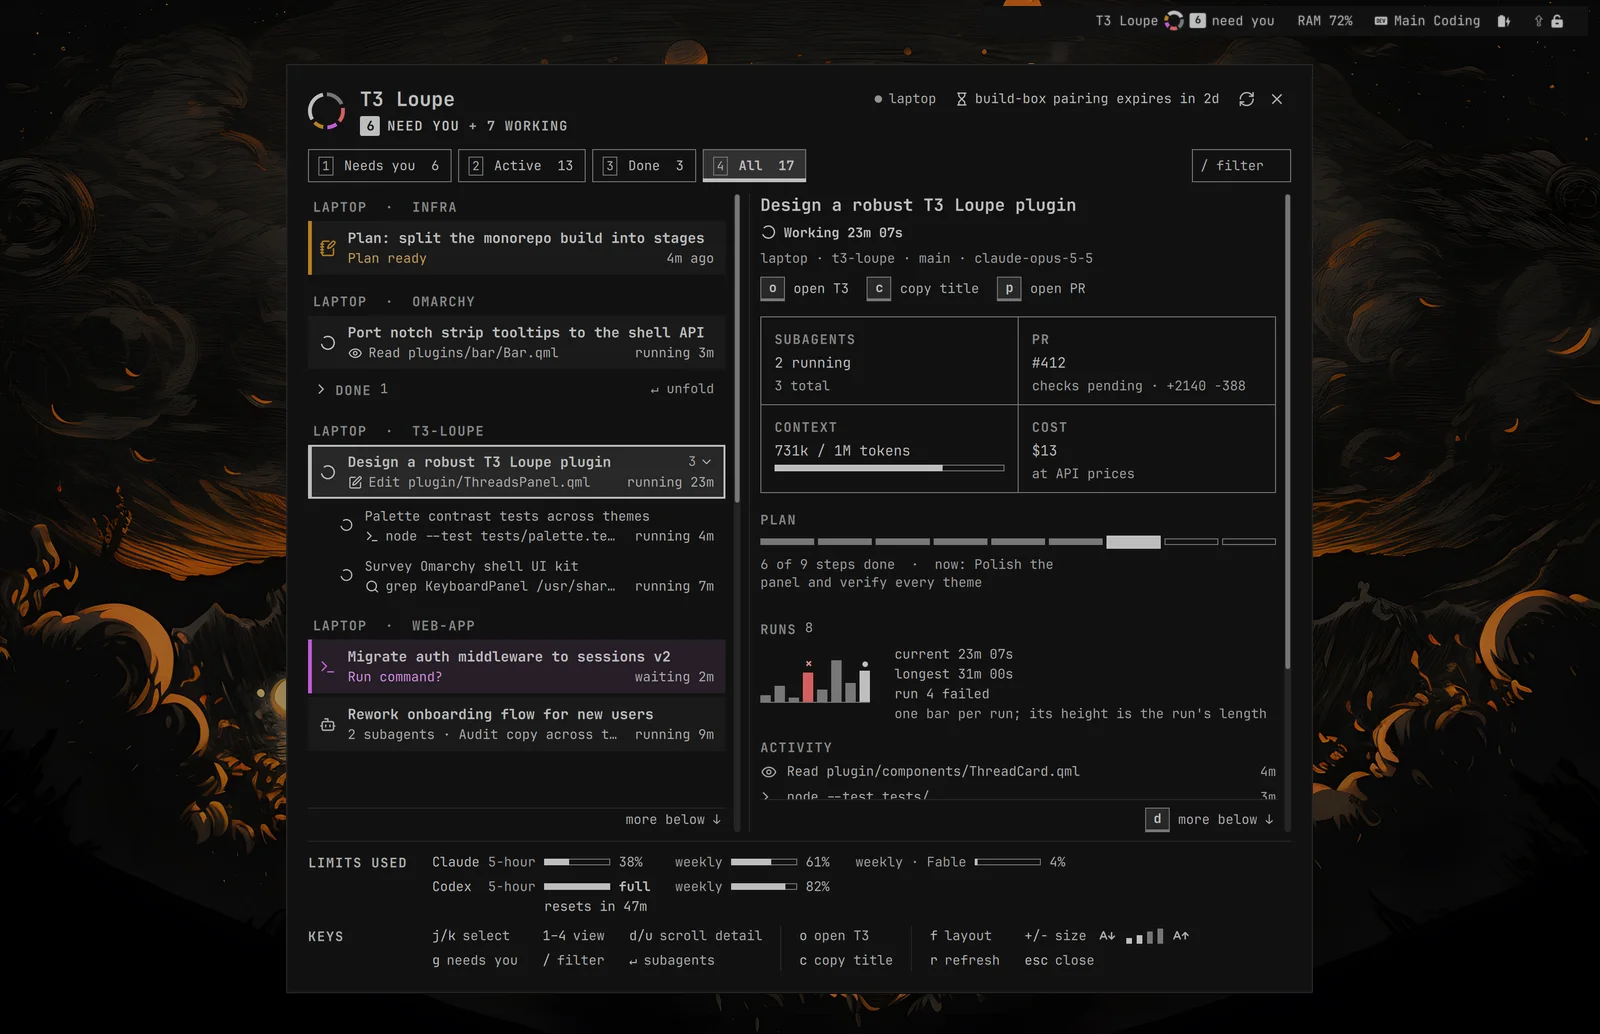
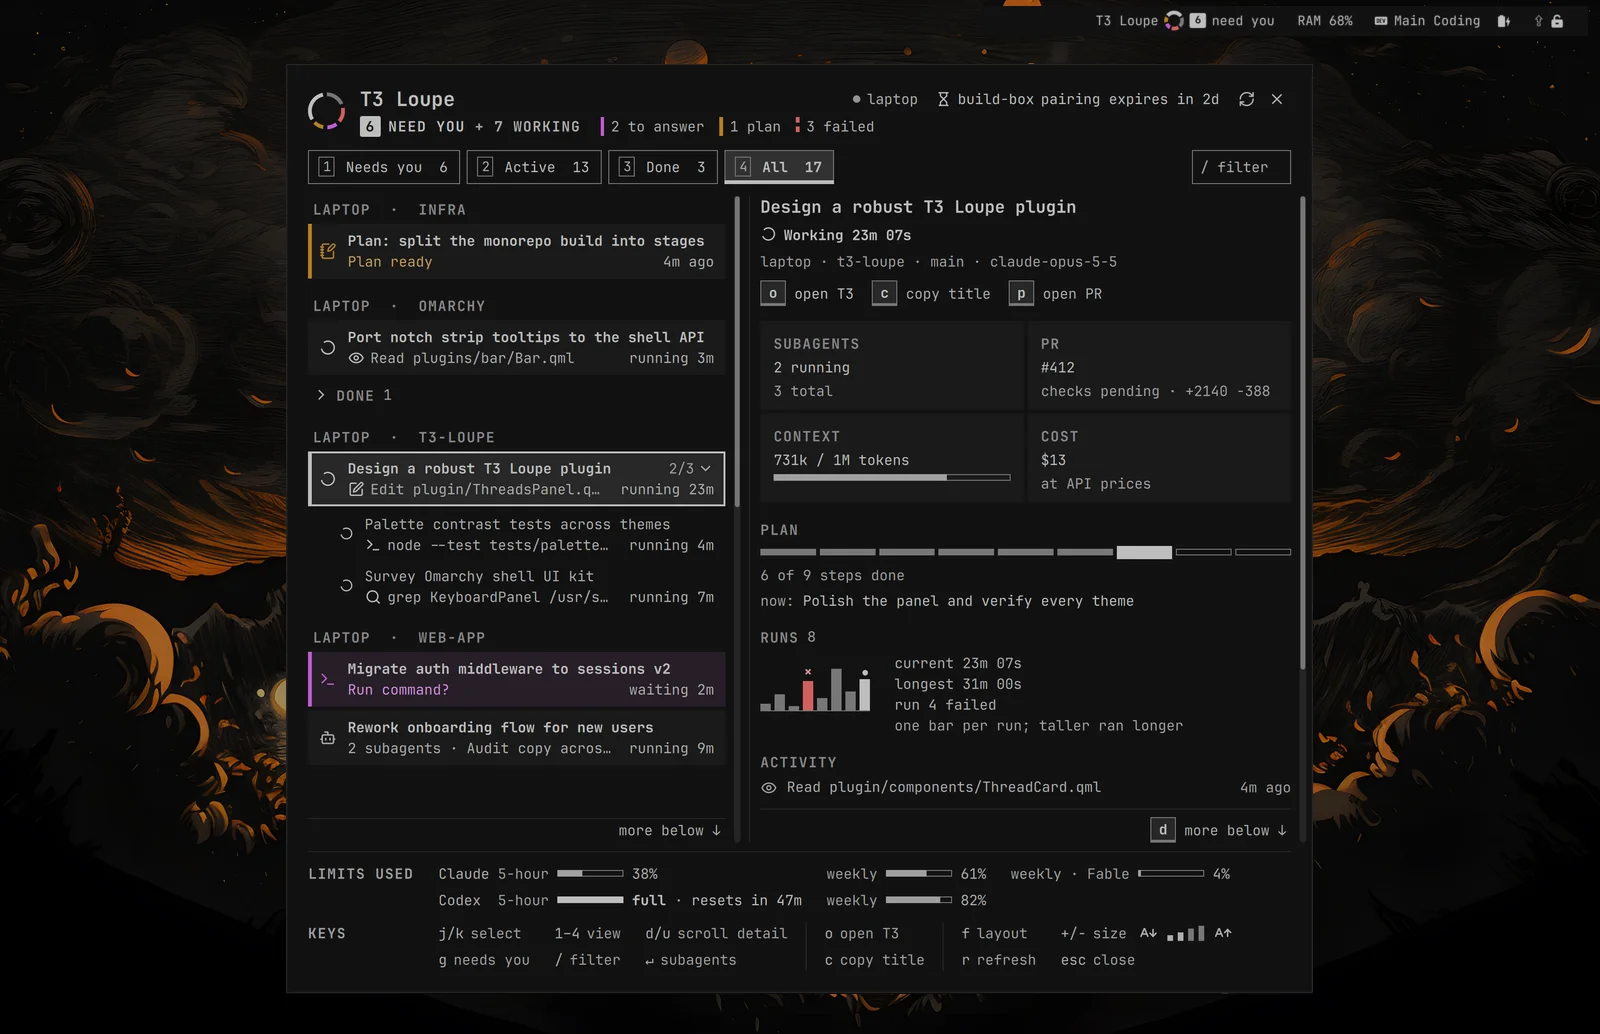
Release secondary text and contrast as 2.6.1

diff --git a/CHANGELOG.md b/CHANGELOG.md
@@ -2,6 +2,30 @@
 
 What changed in each version. [`VALIDATION.md`](VALIDATION.md) records how each one was verified.
 
+## 2.6.1 — 2026-11-10
+
+Larger secondary text, a header that says what needs you, and stronger contrast on tinted rows in light themes. From a review round judged by Fable 5.2 and Opus 5.5.
+
+- **Secondary text is one step larger:** row metadata, times, captions, the activity list and the footer, at every text-size setting. Titles and headings are unchanged.
+- **The header says what needs you by kind,** each with the rail its rows carry: `6 NEED YOU + 7 WORKING  ▍2 to answer ▍1 plan ┇3 failed`. It wraps to a second line when narrow.
+- **The detail pane never cuts a line at its scroll edge,** and `d` starts the next page at the first hidden row.
+- **A calmer detail:**
+  - Facts are tiles without outlines.
+  - The plan's "now:" step has its own line.
+  - Plan, Runs and Activity share one gap.
+  - A single fact is a caption and a line, not a lone box.
+  - Callout sentences fill their width without one-word last lines.
+- **The footer:**
+  - In the two-pane window, a spent window's reset sits beside it: `full · resets in 47m`.
+  - The band is a step quieter, and a window at 90% or more stands out in full ink.
+- **Contrast on tinted surfaces:** coloured status text is held to 4.5:1 and icons to 3:1 against the row, selected row or callout fill they actually sit on, in every shipped theme. Light themes get a stronger needs-you wash and darker status inks.
+- **Smaller fixes:**
+  - A subagent count reads "2/3" while only the live ones are listed.
+  - Activity times say "3m ago".
+  - Fold hints show only under the cursor.
+  - A thread whose detail never arrives no longer holds an empty window for seconds.
+- New tests for the larger secondary text, the scroll edges, the header's kinds and tinted-surface contrast across all themes (119 pass).
+
 ## 2.6.0 — 2026-11-09
 
 A second UI overhaul, from a review panel of Fable 5.2 and Sol 6.1 judges. Over three rounds the overall review score went from 6.9 to 7.5 out of 10. No new network, process, file or text-input access; copying a re-pair command uses the existing copy route.

diff --git a/README.md b/README.md
@@ -2,9 +2,9 @@
 
 **See which [T3 Code](https://t3.codes) agent needs you, from your [Omarchy](https://omarchy.org) bar.** A live, read-only view of every T3 thread across your machines: what's waiting on you, what's working, and how close you are to your usage limits.
 
-![The two-pane window: threads grouped by status on the left, the selected thread's live detail on the right](https://raw.githubusercontent.com/AmbitiousRealism2025/t3-loupe-media/main/screens/2.6.0/two-pane.png)
+![The two-pane window: threads grouped by status on the left, the selected thread's live detail on the right](https://raw.githubusercontent.com/AmbitiousRealism2025/t3-loupe-media/main/screens/2.6.1/two-pane.png)
 
-![T3 Loupe in the bar](https://raw.githubusercontent.com/AmbitiousRealism2025/t3-loupe-media/main/screens/2.6.0/bar.png)
+![T3 Loupe in the bar](https://raw.githubusercontent.com/AmbitiousRealism2025/t3-loupe-media/main/screens/2.6.1/bar.png)
 
 ## Quick start
 
@@ -46,7 +46,7 @@ Remove the file, or set `"demo": false`, to go back to live data.
 
 | A pending approval, with the full command | The compact dropdown (press <code>f</code>) |
 |:---:|:---:|
-| ![Pending command approval with the full command text](https://raw.githubusercontent.com/AmbitiousRealism2025/t3-loupe-media/main/screens/2.6.0/two-pane-approval.png) | ![The compact dropdown under the bar](https://raw.githubusercontent.com/AmbitiousRealism2025/t3-loupe-media/main/screens/2.6.0/dropdown.png) |
+| ![Pending command approval with the full command text](https://raw.githubusercontent.com/AmbitiousRealism2025/t3-loupe-media/main/screens/2.6.1/two-pane-approval.png) | ![The compact dropdown under the bar](https://raw.githubusercontent.com/AmbitiousRealism2025/t3-loupe-media/main/screens/2.6.1/dropdown.png) |
 
 <sub>Screenshots: built-in demo feed, Omarchy's <b>Matte Black</b> theme. Loupe takes its colours from whatever theme is active.</sub>
 

diff --git a/VALIDATION.md b/VALIDATION.md
@@ -427,3 +427,19 @@ Contributed in #5. Checked before merging:
 **Not verified:**
 - The window's height change while moving between threads was seen only in stills.
 - Themes other than Matte Black and Catppuccin Latte: covered by the palette tests only.
+
+## Secondary text and tinted-surface contrast — v2.6.1 (2026-11-10)
+
+**How it was reviewed:**
+- **Panel:** eight judges on the same 15 screenshots, eight categories and frozen brief as 2.6.0: four lenses, each judged once by Fable 5.2 high and once by Opus 5.5 at max effort, fresh every round.
+- **Fix agent:** a new Fable 5.2 high session with no history of earlier rounds, given only the guardrails, Sean's standing decisions and the baseline judges' results. It was newly allowed to raise secondary text one step.
+- **Baseline and result:** v2.6.0 scored 7.69 on this panel; round 1 scored 7.72. Layout rose 6.75 to 7.12 and craft reached 8; light-theme colour slipped (7.38 to 7.25), which round 1b fixed. The climb stopped after round 1 under its stop rule (a round gaining under 0.15).
+- **Round 1b:** contrast only. Coloured text against its real tinted background is held to 4.5:1 and icons to 3:1, in every shipped theme.
+
+**Verified:**
+- `npm test`: 119 pass.
+- Live, in Omarchy with Matte Black and Catppuccin Latte: both commits ran in the installed plugin and were photographed from the demo feed at text size 2. The light-theme status words on tinted rows were checked in the round 1b shots.
+- `omarchy plugin validate` passes on a clean export. `git diff --check` is clean.
+
+**Not verified:**
+- Round 1b was not re-scored by the panel; the change was checked against palette figures, the tests and the screenshots.
